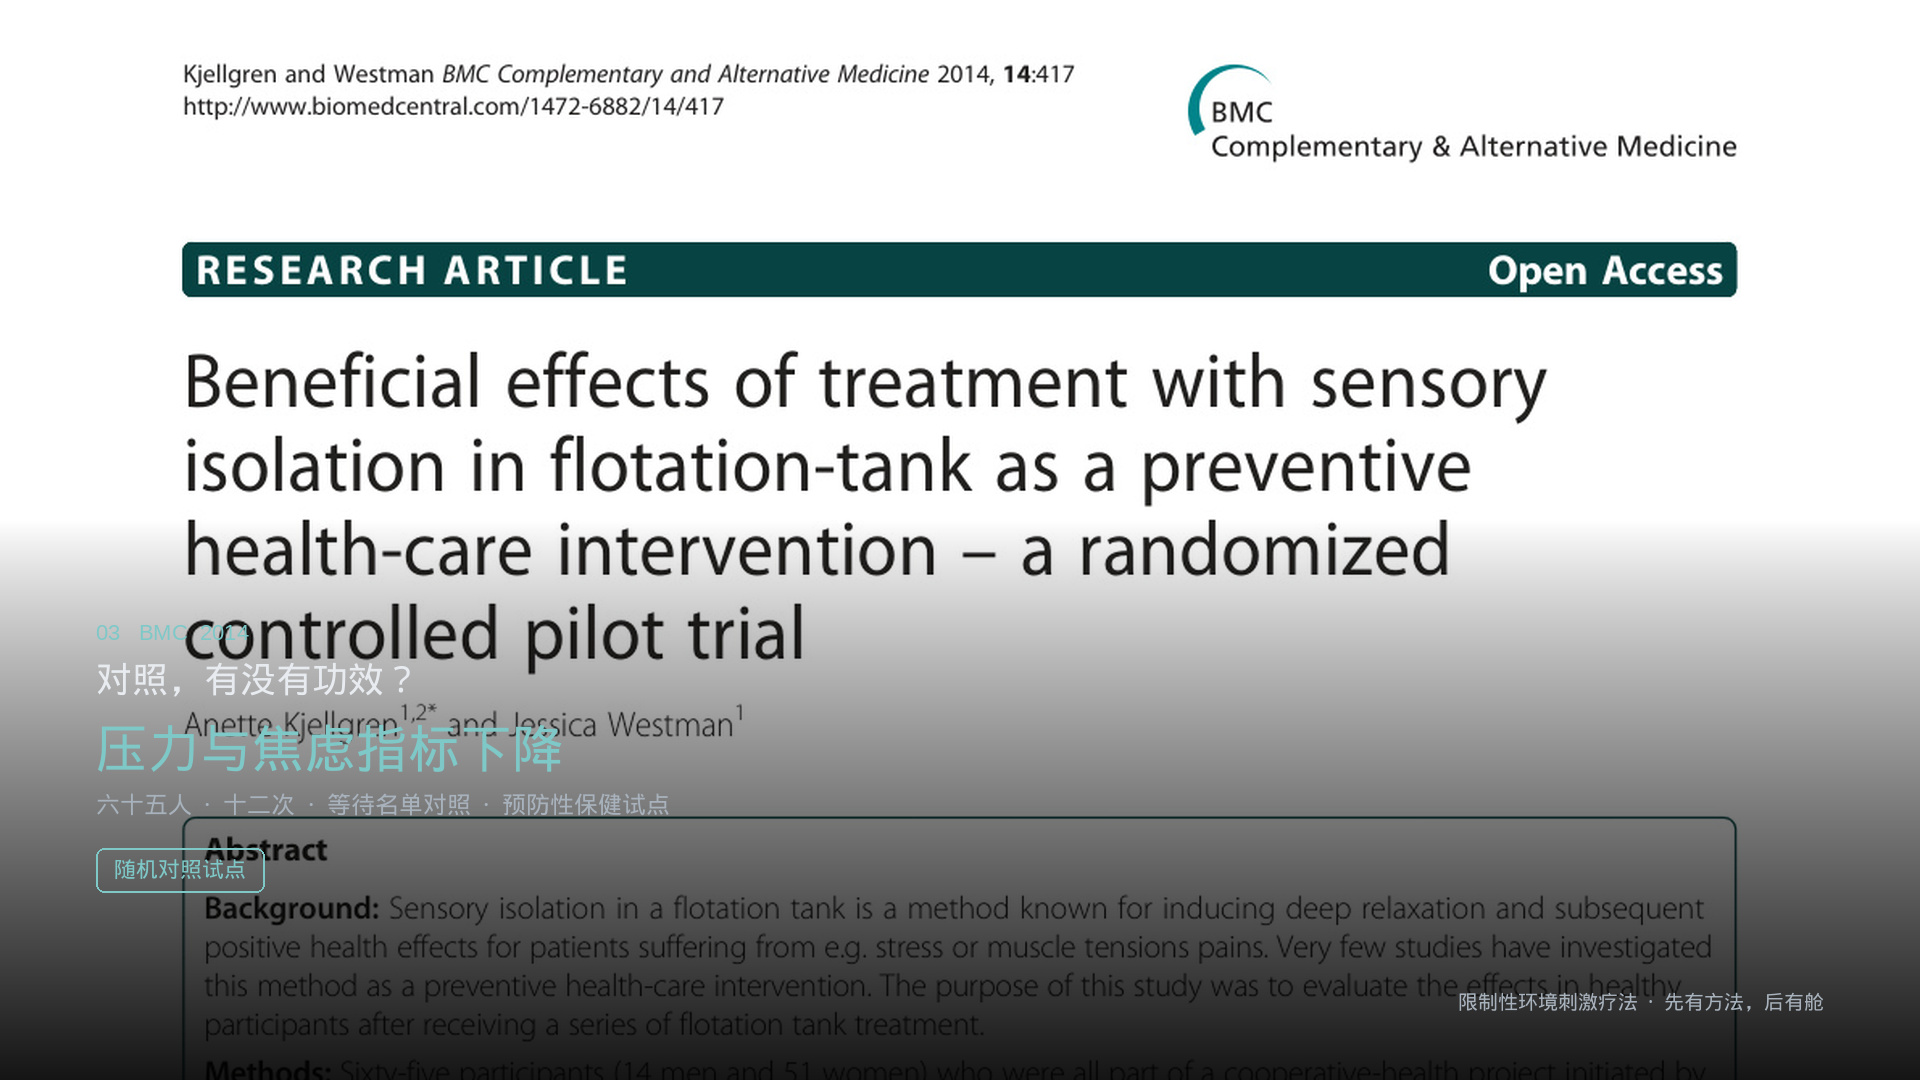
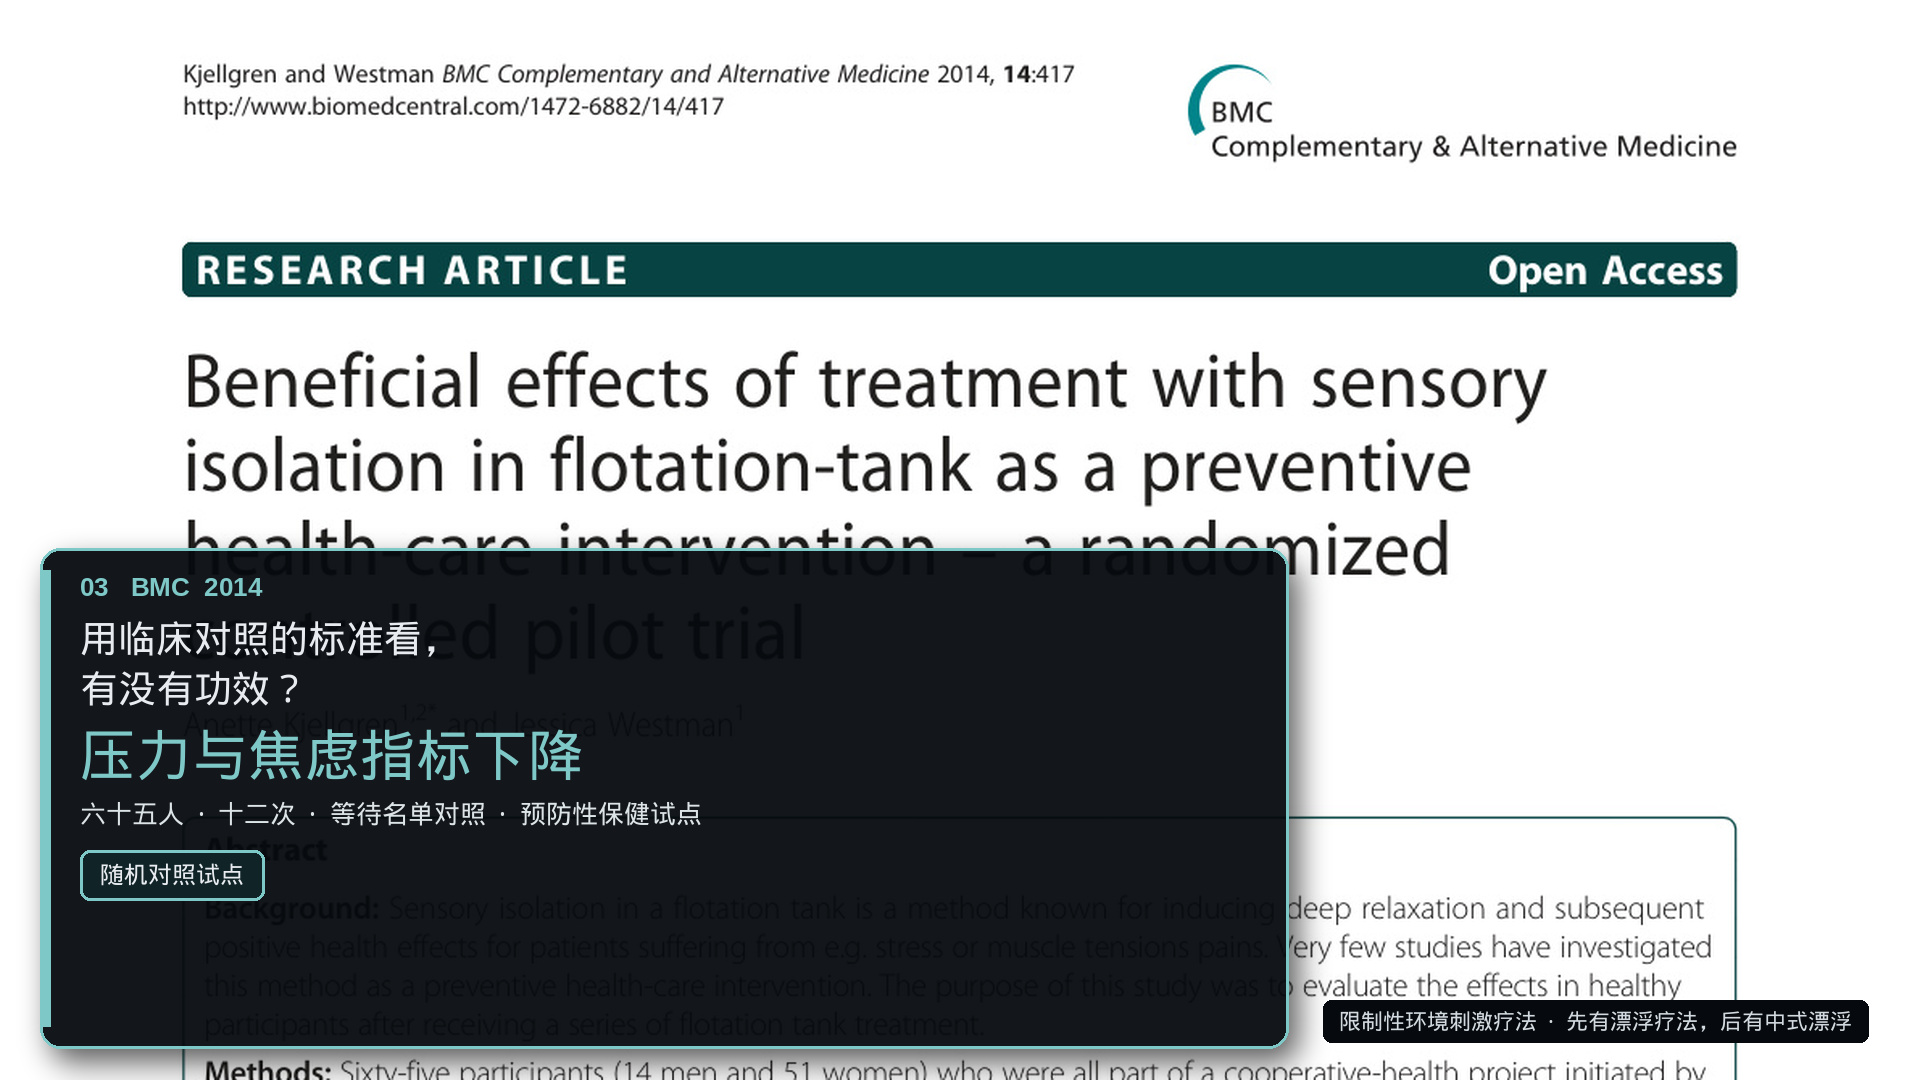
分镜004四宫格标题与底部句按制作口径改写
四宫格标题改为「一次有结果，多次也显著，完成疗程无不良，长期效果仍持续。」
四张论文卡底部改为「先有漂浮疗法，后有中式漂浮」。
功效卡问句改为「用临床对照的标准看，有没有功效？」，左下文字改实底。

diff --git a/scripts/compose-shot004-stills.py b/scripts/compose-shot004-stills.py
@@ -19,6 +19,11 @@ WHITE = (232, 236, 240, 255)
 MUTED = (168, 178, 188, 255)
 TEAL = (126, 200, 200, 255)
 DIM = (90, 102, 112, 255)
+FOOT = "限制性环境刺激疗法  ·  先有漂浮疗法，后有中式漂浮"
+FOUR_UP_TITLE = [
+    "一次有结果，多次也显著，",
+    "完成疗程无不良，长期效果仍持续。",
+]
 
 
 def font(path, size, index=0):
@@ -90,29 +95,49 @@ def rounded(im: Image.Image, size, radius=14):
 
 def paper_card(photo: Image.Image, kicker, question, punch, detail, badge_text, filename):
     base = photo.convert("RGBA")
-    grad = Image.new("RGBA", (W, H), (0, 0, 0, 0))
-    gd = ImageDraw.Draw(grad)
-    for y in range(520, H):
-        a = int(235 * ((y - 520) / (H - 520)) ** 0.85)
-        gd.line((0, y, W, y), fill=(0, 0, 0, min(a, 235)))
-    base = Image.alpha_composite(base, grad)
+    # keep paper title visible on top; put copy on a solid left panel
+    panel = Image.new("RGBA", (W, H), (0, 0, 0, 0))
+    pd = ImageDraw.Draw(panel)
+    x0, y0, x1, y1 = 40, 548, 1288, 1048
+    shadow = Image.new("RGBA", (W, H), (0, 0, 0, 0))
+    sd = ImageDraw.Draw(shadow)
+    sd.rounded_rectangle((x0 + 10, y0 + 14, x1 + 10, y1 + 14), 22, fill=(0, 0, 0, 160))
+    shadow = shadow.filter(ImageFilter.GaussianBlur(14))
+    panel = Image.alpha_composite(panel, shadow)
+    pd = ImageDraw.Draw(panel)
+    pd.rounded_rectangle((x0, y0, x1, y1), 20, fill=(6, 10, 14, 242), outline=TEAL, width=3)
+    pd.rectangle((x0, y0 + 22, x0 + 10, y1 - 22), fill=TEAL)
+    base = Image.alpha_composite(base, panel)
+
     d = ImageDraw.Draw(base)
-    f_kick = font(LATIN, 22)
-    f_q = font(CN, 36)
-    f_punch = font(CN, 52)
-    f_detail = font(CN, 24)
-    f_badge = font(CN, 22)
-    f_foot = font(CN, 20)
-    d.text((96, 620), kicker, font=f_kick, fill=TEAL)
-    d.text((96, 658), question, font=f_q, fill=WHITE)
-    d.text((96, 718), punch, font=f_punch, fill=TEAL)
-    d.text((96, 790), detail, font=f_detail, fill=MUTED)
-    tw, th = text_size(d, badge_text, f_badge)
-    bx, by = 96, 848
-    d.rounded_rectangle((bx, by, bx + tw + 36, by + 44), 8, outline=TEAL, width=2)
-    d.text((bx + 18, by + 8), badge_text, font=f_badge, fill=TEAL)
-    tw, _ = text_size(d, "限制性环境刺激疗法  ·  先有方法，后有舱", f_foot)
-    d.text((W - 96 - tw, 990), "限制性环境刺激疗法  ·  先有方法，后有舱", font=f_foot, fill=MUTED)
+    f_kick = font(LATIN_B, 26)
+    f_q = font(CN, 38)
+    f_punch = font(CN, 56)
+    f_detail = font(CN, 26)
+    f_badge = font(CN, 24)
+    f_foot = font(CN, 22)
+    tx = x0 + 40
+    d.text((tx, 572), kicker, font=f_kick, fill=TEAL)
+    q_lines = [question]
+    if "，" in question and len(question) > 14:
+        a, b = question.rsplit("，", 1)
+        q_lines = [a + "，", b]
+    qy = 616
+    for line in q_lines:
+        d.text((tx, qy), line, font=f_q, fill=WHITE)
+        qy += 50
+    punch_y = qy + 6
+    d.text((tx, punch_y), punch, font=f_punch, fill=TEAL)
+    d.text((tx, punch_y + 76), detail, font=f_detail, fill=(220, 228, 232, 255))
+    tw, _ = text_size(d, badge_text, f_badge)
+    bx, by = tx, punch_y + 128
+    d.rounded_rectangle((bx, by, bx + tw + 40, by + 50), 10, fill=(16, 36, 40, 255), outline=TEAL, width=3)
+    d.text((bx + 20, by + 10), badge_text, font=f_badge, fill=WHITE)
+    foot = FOOT
+    tw, _ = text_size(d, foot, f_foot)
+    fx, fy = W - 48 - tw - 20, 1008
+    d.rounded_rectangle((fx - 16, fy - 8, fx + tw + 16, fy + 34), 8, fill=(6, 10, 14, 220))
+    d.text((fx, fy), foot, font=f_foot, fill=(210, 218, 224, 255))
     save(base, filename)
 
 
@@ -122,11 +147,14 @@ def four_up(photos, filename):
     bg = Image.alpha_composite(bg, shade)
     d = ImageDraw.Draw(bg)
     f_kick = font(LATIN, 20)
-    f_title = font(CN, 36)
+    f_title = font(CN, 34)
     f_label = font(CN, 22)
     f_foot = font(CN, 20)
-    center_text(d, "Floatation-REST", 48, f_kick, TEAL)
-    center_text(d, "一次看见变化，重复做得完，对照有信号", 84, f_title, WHITE)
+    center_text(d, "Floatation-REST", 36, f_kick, TEAL)
+    ty = 68
+    for line in FOUR_UP_TITLE:
+        center_text(d, line, ty, f_title, WHITE)
+        ty += 42
 
     labels = [
         "2018  一次 · 开放标签",
@@ -134,10 +162,10 @@ def four_up(photos, filename):
         "2014  功效 · 随机对照试点",
         "2023  随访 · 柳叶子刊对照",
     ]
-    tw, th = 860, 360
-    gap_x, gap_y = 28, 56
+    tw, th = 860, 350
+    gap_x, gap_y = 28, 52
     x0 = (W - (2 * tw + gap_x)) // 2
-    y0 = 160
+    y0 = 172
     for i, (photo, lab) in enumerate(zip(photos, labels)):
         col, row = i % 2, i // 2
         x = x0 + col * (tw + gap_x)
@@ -154,11 +182,14 @@ def four_up(photos, filename):
         fd.rounded_rectangle((0, 0, tw - 1, th - 1), 14, outline=TEAL, width=2)
         bg.alpha_composite(frame, (x, y))
         dd = ImageDraw.Draw(bg)
-        lw, _ = text_size(dd, lab, f_label)
-        dd.text((x + (tw - lw) // 2, y + th + 10), lab, font=f_label, fill=WHITE)
+        lw, lh = text_size(dd, lab, f_label)
+        lx = x + (tw - lw) // 2
+        ly = y + th + 12
+        dd.rounded_rectangle((lx - 16, ly - 6, lx + lw + 16, ly + 32), 8, fill=(6, 10, 14, 230), outline=TEAL, width=1)
+        dd.text((lx, ly), lab, font=f_label, fill=WHITE)
 
     d = ImageDraw.Draw(bg)
-    center_text(d, "限制性环境刺激疗法  ·  先有方法，后有舱", 1020, f_foot, MUTED)
+    center_text(d, FOOT, 1020, f_foot, MUTED)
     save(bg, filename)
 
 
@@ -189,7 +220,7 @@ def main():
     paper_card(
         p2014,
         "03   BMC  2014",
-        "对照，有没有功效？",
+        "用临床对照的标准看，有没有功效？",
         "压力与焦虑指标下降",
         "六十五人  ·  十二次  ·  等待名单对照  ·  预防性保健试点",
         "随机对照试点",

diff --git a/exports/宣传片_第一章_国际研究基础_分镜003-005.md b/exports/宣传片_第一章_国际研究基础_分镜003-005.md
@@ -93,10 +93,12 @@
 
 1. 一次，有没有变化？  
 2. 重复，人能不能做完？  
-3. 对照，有没有功效？  
+3. 用临床对照的标准看，有没有功效？  
 4. 更硬的对照，会不会很快没了？
 
-收束金句：「一次看见变化，重复做得完，对照有信号。」
+旁白收束：「一次看见变化，重复做得完，对照有信号。」  
+四宫格标题：「一次有结果，多次也显著，完成疗程无不良，长期效果仍持续。」  
+四张卡底部：「限制性环境刺激疗法 · 先有漂浮疗法，后有中式漂浮」
 
 **字幕 / 卡片文案：**
 
@@ -117,7 +119,7 @@
 
 3. **功效 · BMC 2014**  
    截屏：Kjellgren & Westman，*Beneficial effects of treatment with sensory isolation in flotation-tank as a preventive health-care intervention – a randomized controlled pilot trial*  
-   问：对照，有没有功效？  
+   问：用临床对照的标准看，有没有功效？  
    结果：压力与焦虑指标下降  
    细节：六十五人 · 十二次 · 等待名单对照  
    徽章：随机对照试点  
@@ -155,7 +157,7 @@
 | 0:54–1:00 | 功效 | `004c-efficacy.jpg` |
 | 1:00–1:07 | 随访 | `004d-followup.jpg` |
 
-四宫格收束：`004e-four-up.jpg`。源文件在 `user-source/*-p1.jpg`。
+四宫格收束：`004e-four-up.jpg`（标题用上面那句，不要再用旧收束金句当标题）。源文件在 `user-source/*-p1.jpg`。
 
 ---
 

diff --git a/PROJECT.md b/PROJECT.md
@@ -618,7 +618,7 @@ npm run serve          # 或 PORT=43123 bash scripts/keep-alive-server.sh
 
 | 日期 | 变更 |
 |------|------|
-| 2026-09-06 | **分镜 004 四张论文卡**：每张用首页标题区截屏。第二张大字改成「六次，人能做完」（2024 无功效主终点）。新增第三张功效卡 Kjellgren 2014 BMC 随机对照试点（压力与焦虑下降，不写治疗病种）。第四张柳叶子刊六月信号。 |
+| 2026-09-06 | **分镜 004 左下文字加实底**：四张论文卡左下角改为深色底板；功效卡问句改为「用临床对照的标准看，有没有功效？」。四宫格标题改为「一次有结果，多次也显著，完成疗程无不良，长期效果仍持续。」；四张卡底部改为「先有漂浮疗法，后有中式漂浮」。 |
 | 2026-09-06 | **分镜 003 谱系三张指定图**：① Lilly 早期箱式舱；② Suedfeld 1980 Wiley 书封（contain，不裁 REST）；③ 研究视频首帧＝漂浮中脑电/生理监测，不写成 2021 fMRI。解释文字写入分镜稿与 `KP-CRAFT-026` v1.1。 |
 | 2026-08-22 | 初始搭建：导入/总库/编排/PPT/冲突检测 |
 | 2026-08-22 | Claude 导入：杨浦财务 54 条 + B端定稿 50 条 |

diff --git a/exports/video-assets/shot004/README.md b/exports/video-assets/shot004/README.md
@@ -4,9 +4,10 @@
 
 1. `004a-once.jpg` — Feinstein 2018 PLoS ONE · 一次 · 状态焦虑显著下降 · 开放标签
 2. `004b-repeat.jpg` — Garland 2024 PLoS ONE · 重复 · 六次，人能做完 · 可行性（无功效主终点）
-3. `004c-efficacy.jpg` — Kjellgren 2014 BMC · 功效 · 压力与焦虑指标下降 · 随机对照试点
+3. `004c-efficacy.jpg` — Kjellgren 2014 BMC · 用临床对照的标准看，有没有功效？ · 压力与焦虑指标下降
 4. `004d-followup.jpg` — Choquette 2023 柳叶子刊 · 随访 · 六个月后仍有信号
-5. `004e-four-up.jpg` — 四宫格收束
+5. `004e-four-up.jpg` — 四宫格：一次有结果，多次也显著，完成疗程无不良，长期效果仍持续。  
+四张卡底部：先有漂浮疗法，后有中式漂浮
 
 源文件：`user-source/*-p1.jpg`
 
